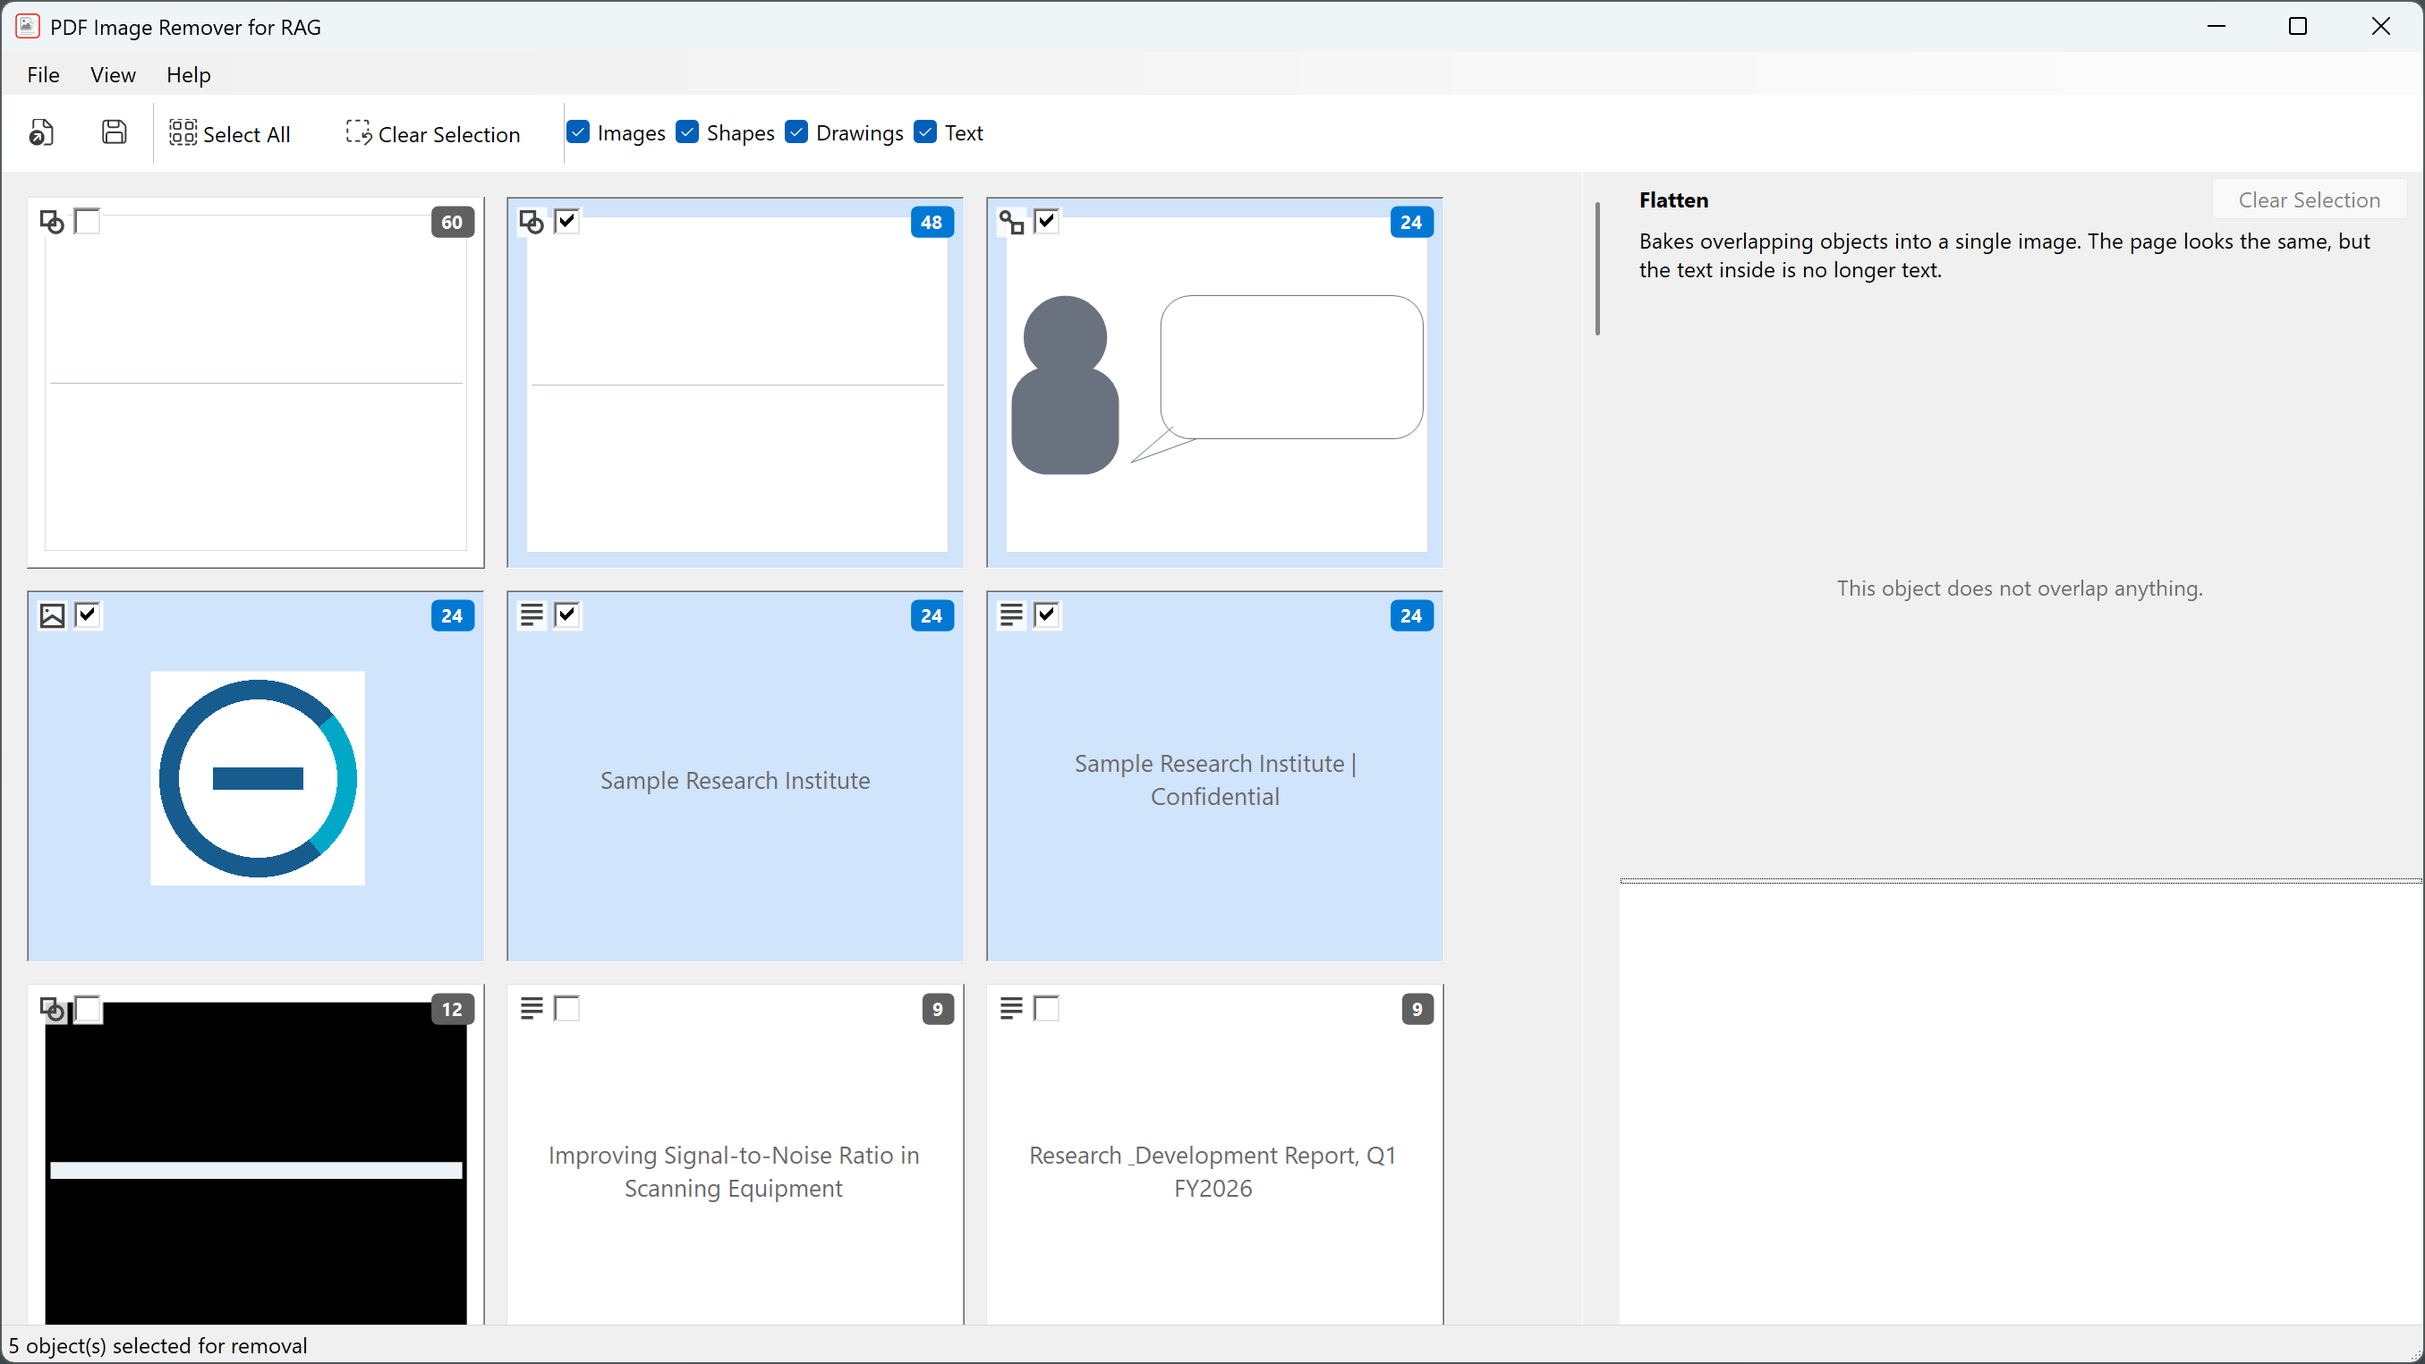
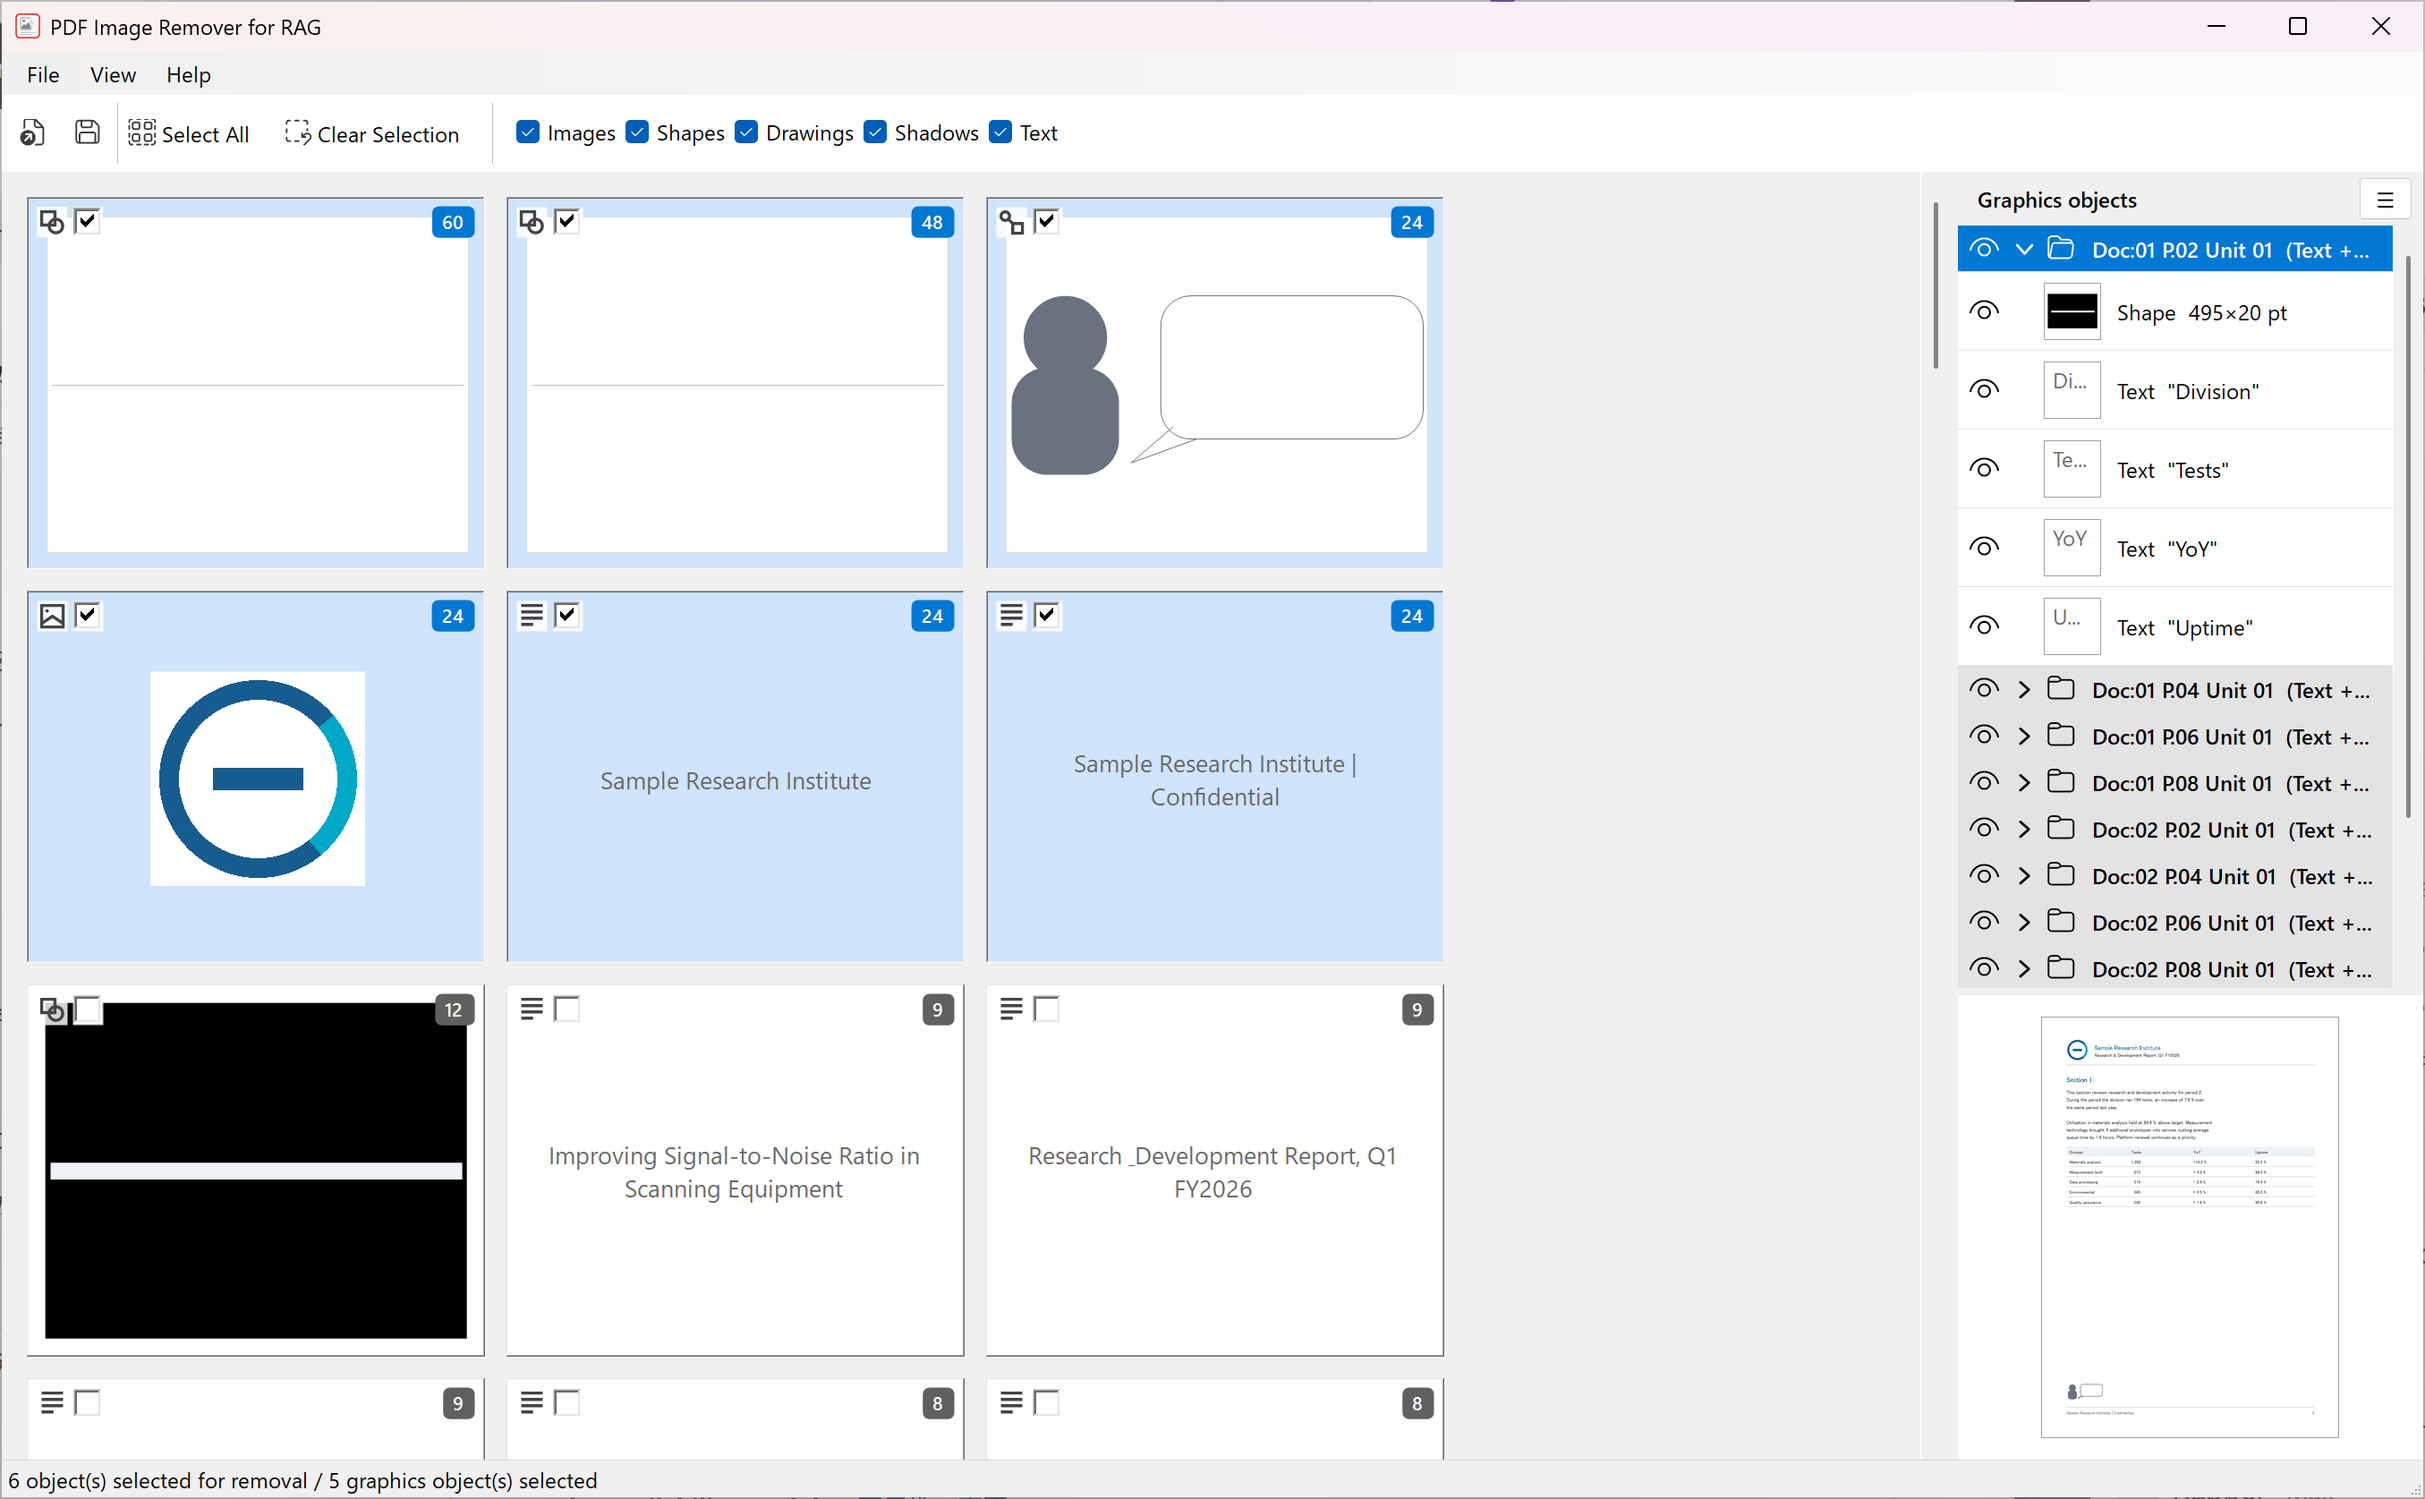
Size the usage window's page to the window
A portrait page drawn at a fixed 367 by 490 sat as a stamp in the middle of
a wide window with a margin either side of it — the third time this session
that a size decided at startup outlived the window it was decided for.

One row is one screenful now: the page is as tall as the window leaves
after its caption, and as wide as that height allows a portrait page to be.
Making the window bigger makes the page bigger.

The manual's pictures are retaken with the same camera (table, tiles and
the panel, in both languages), and the tile pose puts the focus on a tile
that overlaps something, so the panel beside it is not a third of the
picture saying it has nothing to show.

Note for whoever revises the manual: its text still describes the panel as
it was, with ticks on units. There are no ticks now — an eye for what is
drawn, a click for what is selected.

diff --git a/src/PdfImageRemoverForRag.App/UsageLocationsDialog.cs b/src/PdfImageRemoverForRag.App/UsageLocationsDialog.cs
@@ -88,15 +88,18 @@ internal sealed class UsageLocationsDialog : Form
     {
         // Logical (96-DPI) metrics; everything drawn goes through Dip().
         //
-        // The page fills the row's width and the words go underneath it, as a
-        // caption. It was a two-column row — page on the left, file name and
-        // page number to its right — and the column of text was reserving a
-        // third of the window for two short lines, at the expense of the one
-        // thing the window exists to show. Three times the area (212*283 =
-        // 59,996 -> 367*490 = 179,830), which is the same page and the same
-        // outline at 1.73x.
-        const int ThumbWidth = 367;
-        const int ThumbHeight = 490;
+        // The page fills the row and the words go underneath it, as a caption.
+        // It was a two-column row — page on the left, file name and page number
+        // to its right — and the column of text was reserving a third of the
+        // window for two short lines, at the expense of the one thing the
+        // window exists to show.
+        //
+        // The page is sized to the WINDOW, not to a constant: one row is one
+        // screenful, so making the window bigger makes the page bigger. A fixed
+        // size left a stamp in the middle of a wide window and a margin either
+        // side of it — the same fault the panel beside the object list had.
+        const double PageShape = 367.0 / 490.0;     // portrait, the shape A4 lands in
+        const int SmallestPageHeight = 300;
         const int RowPadding = 12;
         const int CaptionGap = 8;
 
@@ -127,13 +130,55 @@ internal sealed class UsageLocationsDialog : Form
         /// </summary>
         int CaptionHeight => (Font.Height * 2) + Dip(2);
 
+        /// <summary>
+        /// The box the page is drawn in: as tall as the window leaves after the
+        /// caption and the padding, and as wide as that height allows a portrait
+        /// page to be — narrowed to the window when the window is the narrower
+        /// of the two.
+        /// </summary>
+        Size PageBox()
+        {
+            int height = Math.Max(
+                Dip(SmallestPageHeight),
+                ClientSize.Height - CaptionHeight - Dip(CaptionGap) - (Dip(RowPadding) * 2));
+            int width = (int)(height * PageShape);
+
+            int widest = Math.Max(Dip(100), ClientSize.Width - (Dip(RowPadding) * 2));
+            if (width > widest)
+            {
+                width = widest;
+                height = (int)(width / PageShape);
+            }
+            return new Size(width, height);
+        }
+
         int RowHeight =>
-            Dip(ThumbHeight) + Dip(CaptionGap) + CaptionHeight + (Dip(RowPadding) * 2);
+            PageBox().Height + Dip(CaptionGap) + CaptionHeight + (Dip(RowPadding) * 2);
 
         protected override void OnHandleCreated(EventArgs e)
         {
             base.OnHandleCreated(e);
             AutoScrollMinSize = new Size(0, _rows.Count * RowHeight);
+            EnsureRenders();
+        }
+
+        /// <summary>
+        /// The page follows the window, so a resize changes how tall a row is
+        /// and how many pixels each page wants. The rendered ones were drawn for
+        /// the old width; they are dropped rather than stretched.
+        /// </summary>
+        protected override void OnResize(EventArgs e)
+        {
+            base.OnResize(e);
+            if (!IsHandleCreated) return;
+
+            var wanted = new Size(0, _rows.Count * RowHeight);
+            if (AutoScrollMinSize == wanted) return;
+
+            AutoScrollMinSize = wanted;
+            foreach (var page in _rendered.Values) page.Bitmap.Dispose();
+            _rendered.Clear();
+            Invalidate();
             EnsureRenders();
         }
 
@@ -178,12 +223,12 @@ internal sealed class UsageLocationsDialog : Form
             var row = _rows[index];
             var bounds = RowBounds(index);
 
-            // Centred, and never wider than the window: the page is the row now,
-            // so a narrow window shrinks it rather than clipping it.
-            int thumbWidth = Math.Min(Dip(ThumbWidth), bounds.Width - (Dip(RowPadding) * 2));
+            // Centred: the page is the row now, and it is as big as the window
+            // allows.
+            var box = PageBox();
             var thumbBox = new Rectangle(
-                bounds.Left + ((bounds.Width - thumbWidth) / 2), bounds.Top + Dip(RowPadding),
-                Math.Max(1, thumbWidth), Dip(ThumbHeight));
+                bounds.Left + ((bounds.Width - box.Width) / 2), bounds.Top + Dip(RowPadding),
+                box.Width, box.Height);
 
             // Thumbnail (or a placeholder while it renders), with the object's
             // location(s) outlined once the page is available.
@@ -279,7 +324,7 @@ internal sealed class UsageLocationsDialog : Form
                     }
                     if (target < 0) break;
 
-                    int widthPx = Dip(ThumbWidth);
+                    int widthPx = PageBox().Width;
                     var page = await _renderer.RenderAsync(
                         _rows[target].FilePath, _rows[target].PageNumber, widthPx);
                     if (_closed)

diff --git a/src/PdfImageRemoverForRag.App/MainForm.Screenshot.cs b/src/PdfImageRemoverForRag.App/MainForm.Screenshot.cs
@@ -86,6 +86,11 @@ internal sealed partial class MainForm
             case ScreenshotViews.Tiles:
                 TickAFewObjects();
                 _tileViewMenuItem.PerformClick();
+                // After the switch, so the focus lands on a tile rather than on
+                // a row nobody can see — and on one that overlaps something, so
+                // the panel beside it is not a third of the picture saying it
+                // has nothing to show.
+                FocusAnOverlappingObject();
                 return this;
 
             case ScreenshotViews.Objects:
